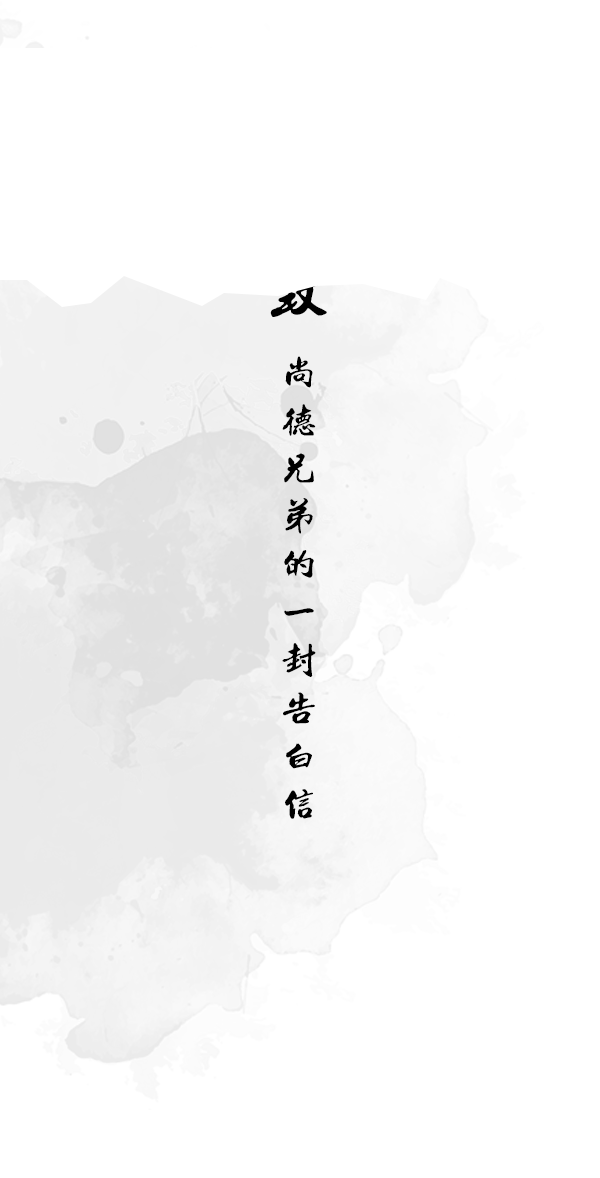
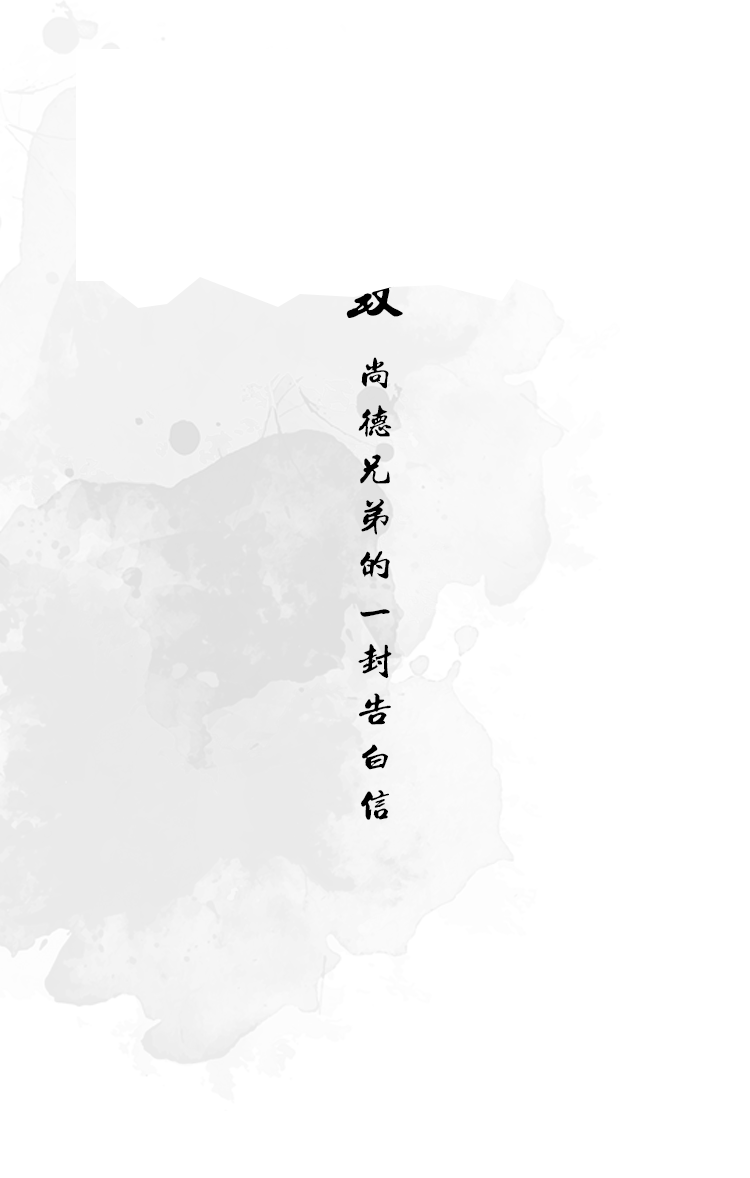
边距

Changed region(s): [[0.48, 0.3056, 0.54, 0.489], [0.48, 0.5501, 0.54, 0.7029], [0.45, 0.2445, 0.54, 0.275]]

diff --git a/src/views/letter/letter.vue b/src/views/letter/letter.vue
@@ -305,7 +305,7 @@ html, body, #app {
 .screen-zero {
   display: flex;
   justify-content: center;
-  padding: 20px 20px;
+  /* padding: 20px 20px; */
 }
 .screen-zero .sk1_box {
   text-align: center;

diff --git a/src/style/index.less b/src/style/index.less
@@ -15,7 +15,6 @@ body,
 
 #app {
   background: #eee;
-  padding: 20px 16px;
 }
 .table {
   height: 100%;
@@ -70,4 +69,5 @@ table {
 .box_nr {
   margin: 0;
   padding: 0;
+  padding: 20px 20px;
 }

diff --git a/src/views/home/Home.vue b/src/views/home/Home.vue
@@ -95,7 +95,7 @@ export default {
 <style>
 #app {
   background: #eee;
-  padding: 20px 16px;
+  /* padding: 20px 16px; */
 }
 .table {
   height: 100%;
